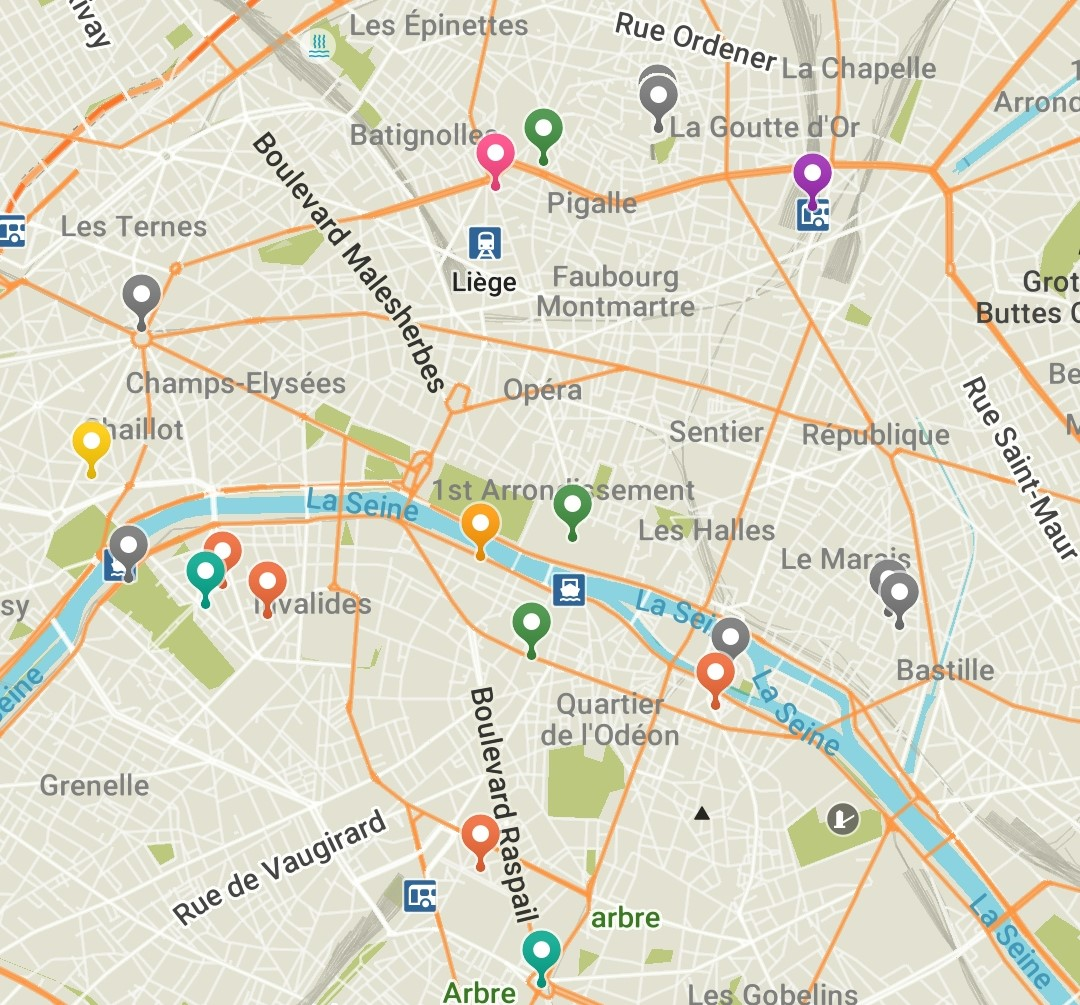
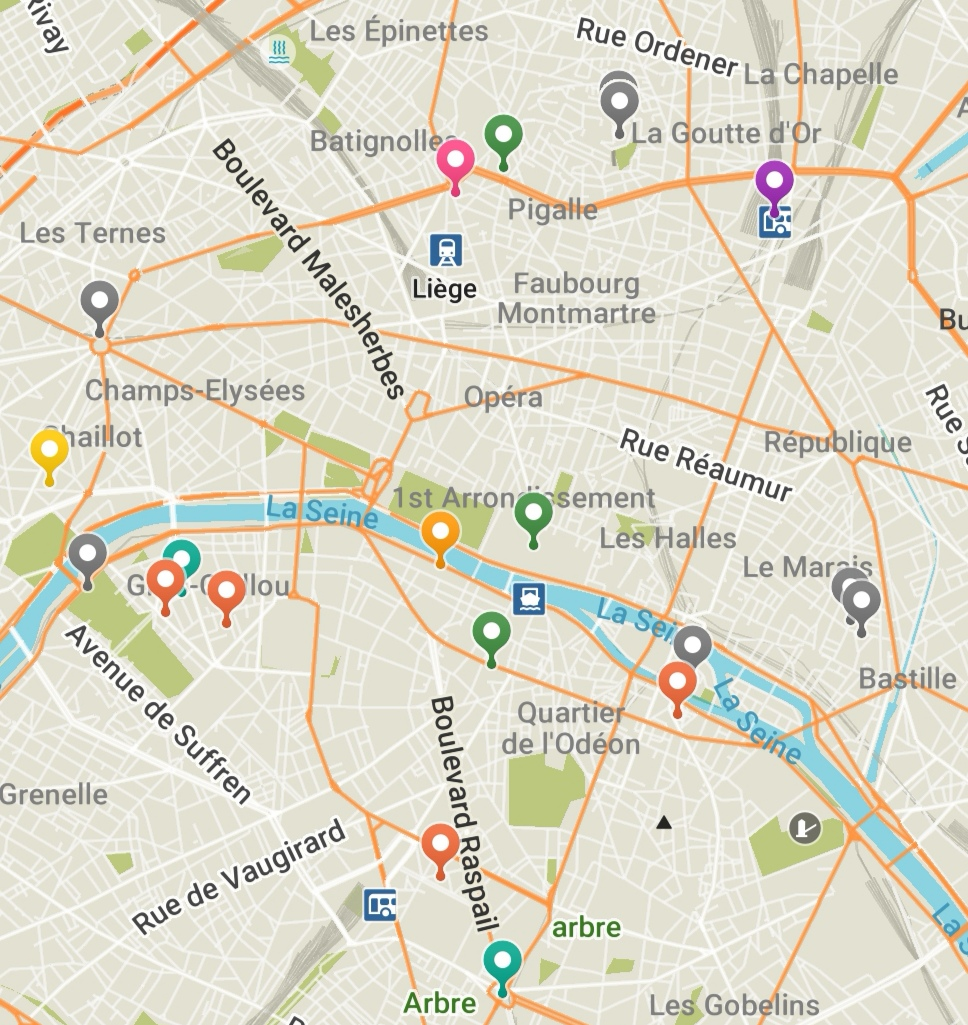
Adding content Saturday and Sunday

diff --git a/index.html b/index.html
@@ -45,7 +45,7 @@
             <p class="mb-5">
               Thalys vertrekt vanaf Schiphol om 19.34uur en komt aan op Paris
               Gare du Nord om 22.39uur. Ons hotel heet Hôtel Pilime en het adres
-              is 76 Rue de Clichy. Dicht bij metro halt Place de Clichy.
+              is 76 Rue de Clichy. Dicht bij metro station Place de Clichy.
             </p>
             <a href="/vrijdag.html" class="btn btn-branding-outline">
               Uitgebreid</a
@@ -59,7 +59,12 @@
         <div class="col">
           <div class="project-description">
             <h2 class="mb-5">Zaterdag</h2>
-            <p class="mb-5 text-muted"></p>
+            <p class="mb-5">
+              Op zaterdag hebben we de fietstocht van Baja bikes gepland staan
+              om 15.00uur. In de ochtend hebben we de tijd om rond te lopen over
+              de markt op Rue Cler of de markt op Edgar Quinet. Na de fietstour
+              hebben we een reservering bij Arnaud Nicolas om 20.00uur.
+            </p>
             <a href="/zaterdag.html" class="btn btn-branding-outline">
               Uitgebreid</a
             >
@@ -78,7 +83,11 @@
         <div class="col">
           <div class="project-description">
             <h2 class="mb-5">Zondag</h2>
-            <p class="mb-5 text-muted"></p>
+            <p class="mb-5">
+              Op zondag hebben we tickets voor de Catacombes van Parijs om
+              12.00uur. Verder hebben we een reservering bij Pottoka om
+              19.30uur.
+            </p>
             <a href="/zondag.html" class="btn btn-branding-outline">
               Uitgebreid</a
             >
@@ -91,7 +100,7 @@
         <div class="col">
           <div class="project-description">
             <h2 class="mb-5">Maandag</h2>
-            <p class="mb-5 text-muted"></p>
+            <p class="mb-5"></p>
             <a href="/maandag.html" class="btn btn-branding-outline">
               Uitgebreid</a
             >
@@ -110,7 +119,7 @@
         <div class="col">
           <div class="project-description">
             <h2 class="mb-5">Dinsdag</h2>
-            <p class="mb-5 text-muted"></p>
+            <p class="mb-5"></p>
             <a href="/dinsdag.html" class="btn btn-branding-outline">
               Uitgebreid</a
             >

diff --git a/zaterdag.html b/zaterdag.html
@@ -47,10 +47,27 @@
           <div class="dayinfo">
             <h2 class="mb-3">Planning</h2>
             <div class="mb-5">
-              <p></p>
-              <p></p>
-              <p></p>
-              <p></p>
+              <p>
+                De <span class="oranje">oranje</span> pins in de kaart zijn voor
+                de zaterdag.
+              </p>
+              <p>
+                De markten bevinden zich op Rue Cler en Edgar Quinet. De markt
+                van Rue Cler is alle dagen van de week behalve op maandag open.
+                Daarom zouden we hier ook een andere dag heen kunnen. De markt
+                van Edgar Quinet is voor ons alleen op zaterdag ochtend een
+                optie.
+              </p>
+              <p>
+                Om 15.00uur hebben we een fietstour van BajaBikes gepland staan.
+                Hiervoor moeten we minimaal 15minuten van te voren aanwezig
+                zijn. De locatie is in een ondergrondse garage, Seames
+                Lagrange-Maubert, 19 Rue Lagrange, niveau -1.
+              </p>
+              <p>
+                Vervolgens hebben we een reservering staan bij Arnaud Nicolas om
+                20.00uur. Dit adres is 46 Avenue de la Bourdonnais.
+              </p>
             </div>
           </div>
         </div>

diff --git a/zondag.html b/zondag.html
@@ -47,10 +47,25 @@
           <div class="dayinfo">
             <h2 class="mb-3">Planning</h2>
             <div class="mb-5">
-              <p></p>
-              <p></p>
-              <p></p>
-              <p></p>
+              <p>
+                De <span class="blauwgroen">blauwgroene</span> pins zijn
+                gekoppeld aan de zondag
+              </p>
+              <p>
+                Op zondag hebben we om 12.00uur tickets voor de Catacombes van
+                Parijs. Dit komt samen met een audiogids en zal ongeveer een
+                uurtje in beslag nemen.
+              </p>
+              <p>
+                Hiervoor en hierna hebben we de tijd om eventueel rond te fiets
+                op de Velib fietsen en langs de Eiffeltoren en de Arc de
+                Triomphe te fietsen.
+              </p>
+              <p>
+                Om 19.30uur hebben we een reservering staan bij restaurant
+                Pottoka. Na afloop moeten we even op het hele uur langs de
+                Eiffeltoren lopen voor de lichtshow.
+              </p>
             </div>
           </div>
         </div>

diff --git a/vrijdag.html b/vrijdag.html
@@ -62,8 +62,8 @@
                 Dichstbijzijnde metro station is Place de Clichy
               </p>
               <p>
-                Gare du Nord - Paarse pin<br />
-                Hôtel Pimile - Roze pin
+                Gare du Nord - <span class="paars">Paarse</span> pin<br />
+                Hôtel Pimile - <span class="roze">Roze</span> pin
               </p>
             </div>
           </div>

diff --git a/styles/styles.css b/styles/styles.css
@@ -79,7 +79,19 @@ h2 {
 .kaart {
   display: block;
   margin: 0 auto;
-  margin-top: 120px;
+  margin-top: 110px;
+}
+.roze {
+  color: #f24982;
+}
+.paars {
+  color: #9b31af;
+}
+.oranje {
+  color: #e3683c;
+}
+.blauwgroen {
+  color: #0da38a;
 }
 @media (max-width: 700px) {
   h1 {
